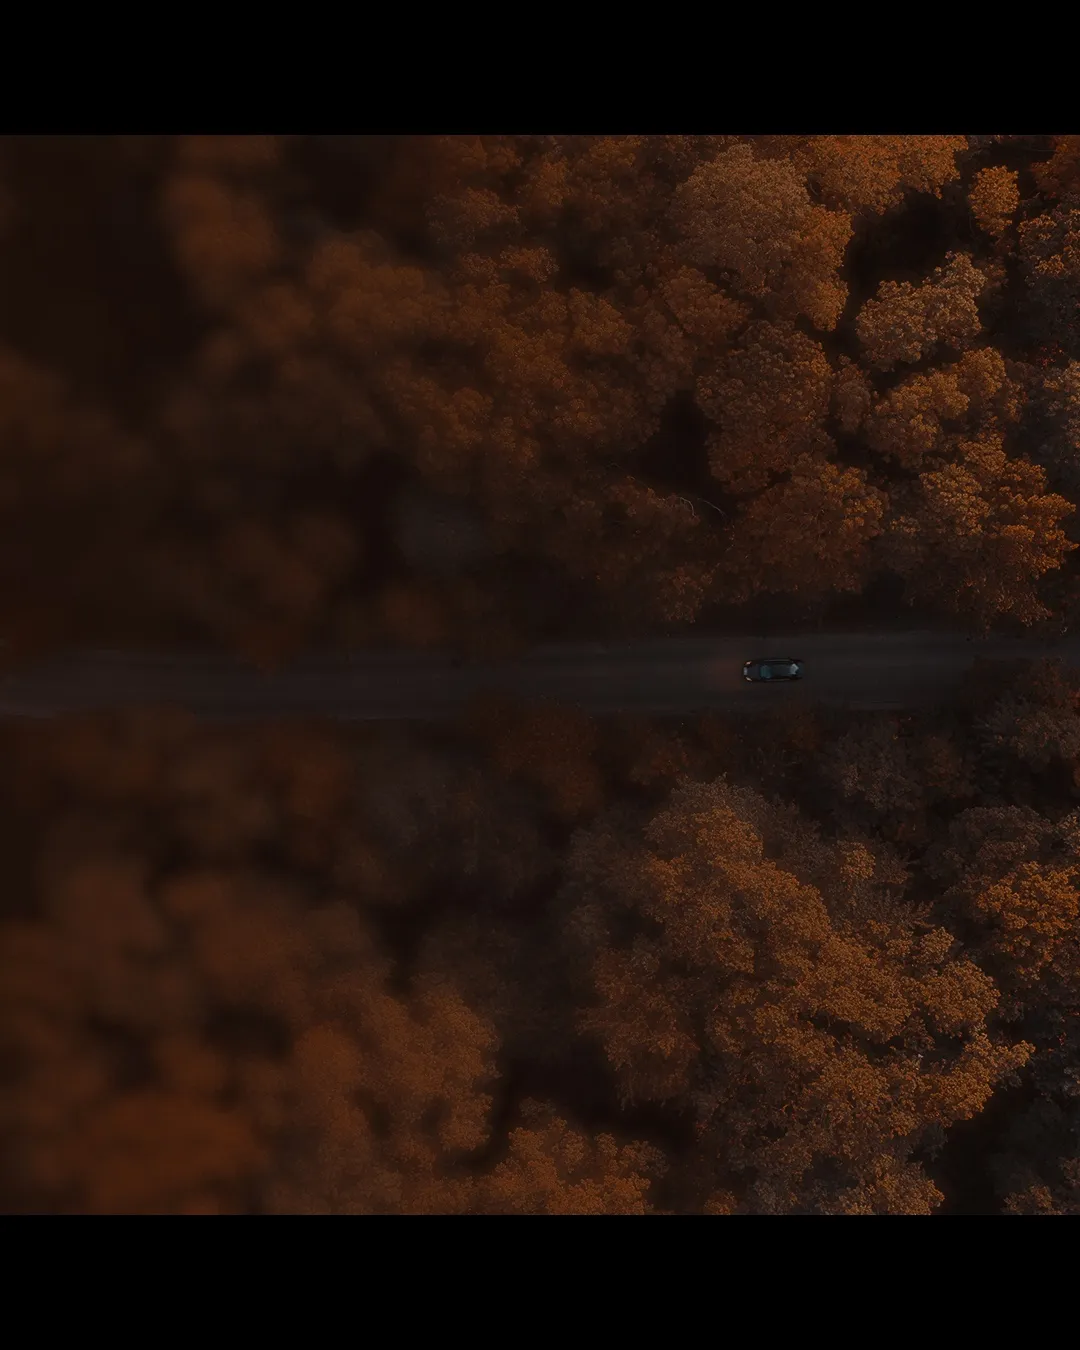
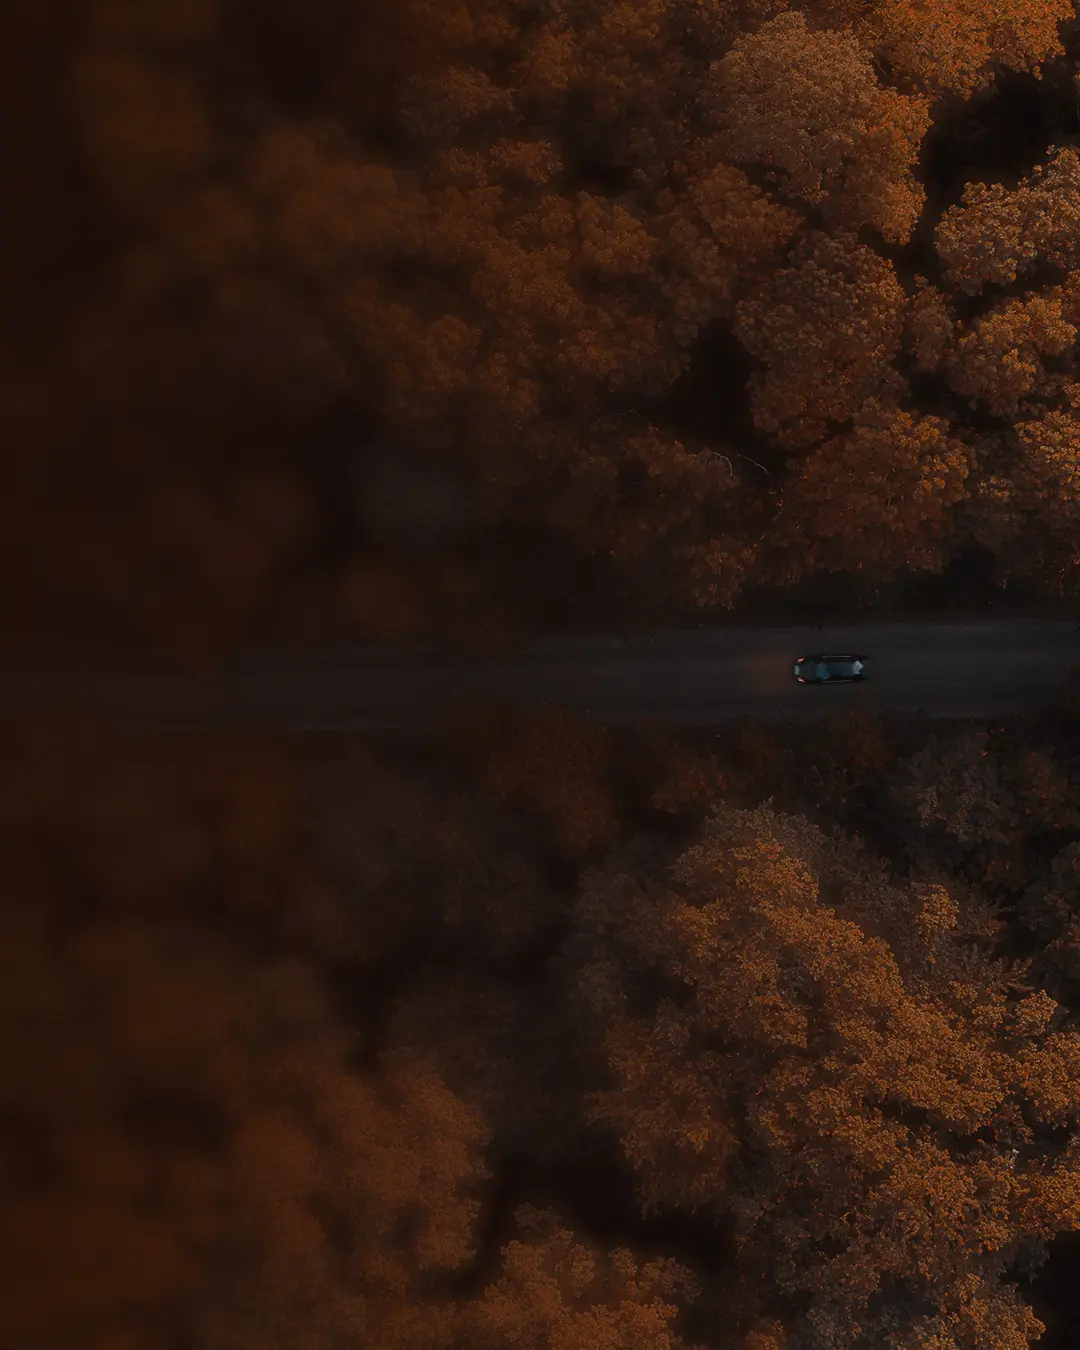
Mobile post-pilot: crop image black bars, eliminate surrounding dark bands
- Update mobile road-hero-treated-mobile.webp (1080x1350, ~80KB) with
  fresh export. The new file has ~134px black bars baked into its top
  and bottom edges.
- Mobile aspect-ratio on .post-pilot-media img -> 1/1 (square) so
  object-fit: cover crops the source by exactly the bar height on each
  side. Image content fills the visible box; bars are clipped out.
- Mobile .post-pilot gets margin-top: -48px so the road image visually
  extends over the stats-bar's bottom padding (no dark ink band above).
- Mobile .post-pilot-overlay drops its top padding; .pp-eyebrow gets
  padding-top: 24px so the eyebrow text breathes against the image
  bottom without a coffee-bean band.
- Stat #4 simplified from "$138K-$414K" to "$138K+"

Desktop is untouched (changes are inside @media (max-width: 768px)).

diff --git a/index.html b/index.html
@@ -1288,18 +1288,31 @@
     .hero { padding: 120px 0 64px; }
     .container { padding: 0 20px; }
     .nav-inner { padding: 0 20px; }
-    .post-pilot { padding: 0; }
+    .post-pilot {
+      padding: 0;
+      /* Pull up over the stats-bar's 48px bottom padding so the image
+         fills that space instead of leaving a dark ink band above it. */
+      margin-top: -48px;
+      position: relative;
+      z-index: 1;
+    }
     .post-pilot-media img {
       height: auto;
-      aspect-ratio: 4 / 5;
-      object-position: center 60%;
+      /* Box is square so cover crops out the ~134px black bars baked into
+         the top and bottom of road-hero-treated-mobile.webp. */
+      aspect-ratio: 1 / 1;
+      object-fit: cover;
+      object-position: center;
     }
     .post-pilot-overlay {
       position: static;
       transform: none;
-      padding: 36px 0 56px;
+      /* No top padding: image bottom edge meets the eyebrow text directly,
+         eliminating the coffee-bean band below the image. */
+      padding: 0 0 56px;
       background: var(--coffee-bean);
     }
+    .pp-eyebrow { padding-top: 24px; }
     .pp-eyebrow { margin-bottom: 18px; }
     .pp-head { margin-bottom: 22px; }
     .pp-body { margin-bottom: 24px; }
@@ -1420,7 +1433,7 @@
         <div class="lbl">Team output without adding headcount</div>
       </div>
       <div class="stat fade-up" style="transition-delay:0.24s">
-        <div class="num">$138K&ndash;$414K</div>
+        <div class="num">$138K+</div>
         <div class="lbl">Annual value recovered from a $20K engagement</div>
       </div>
     </div>
